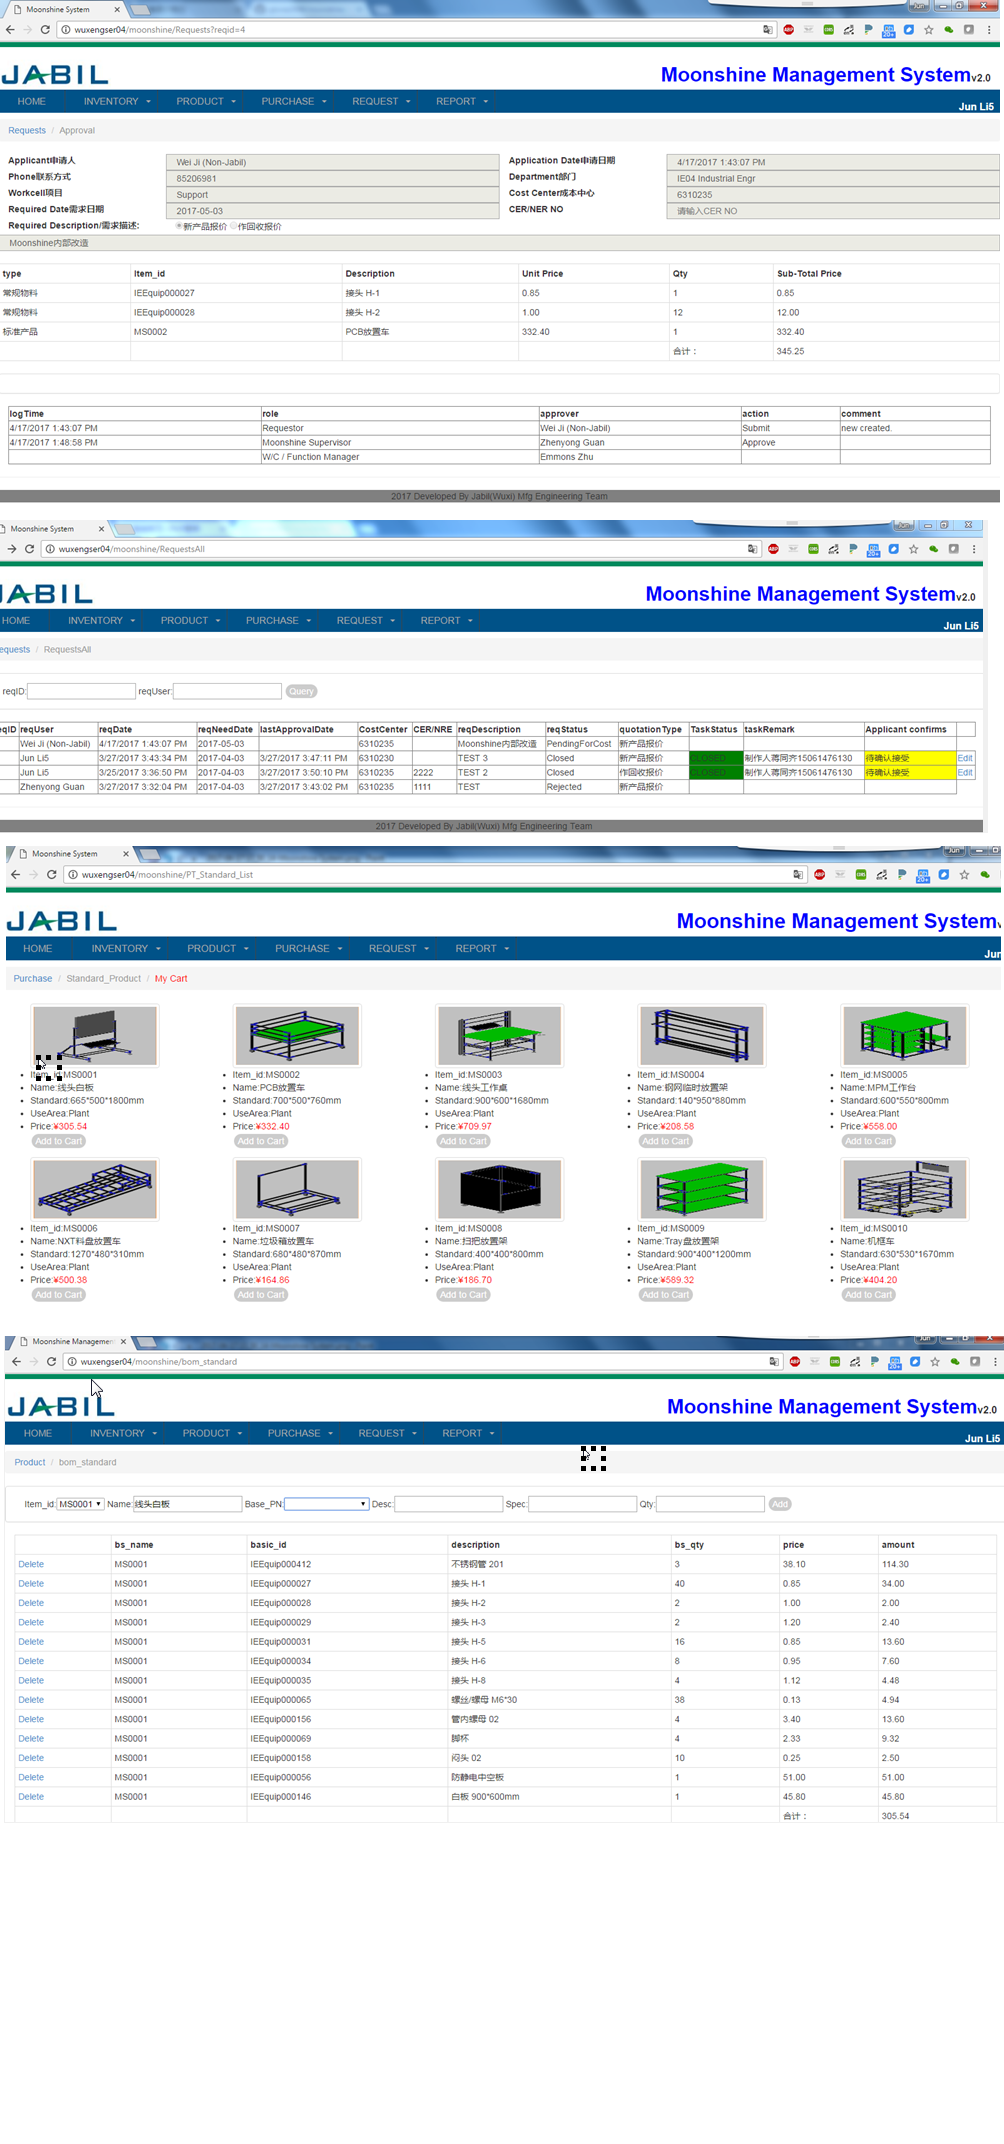
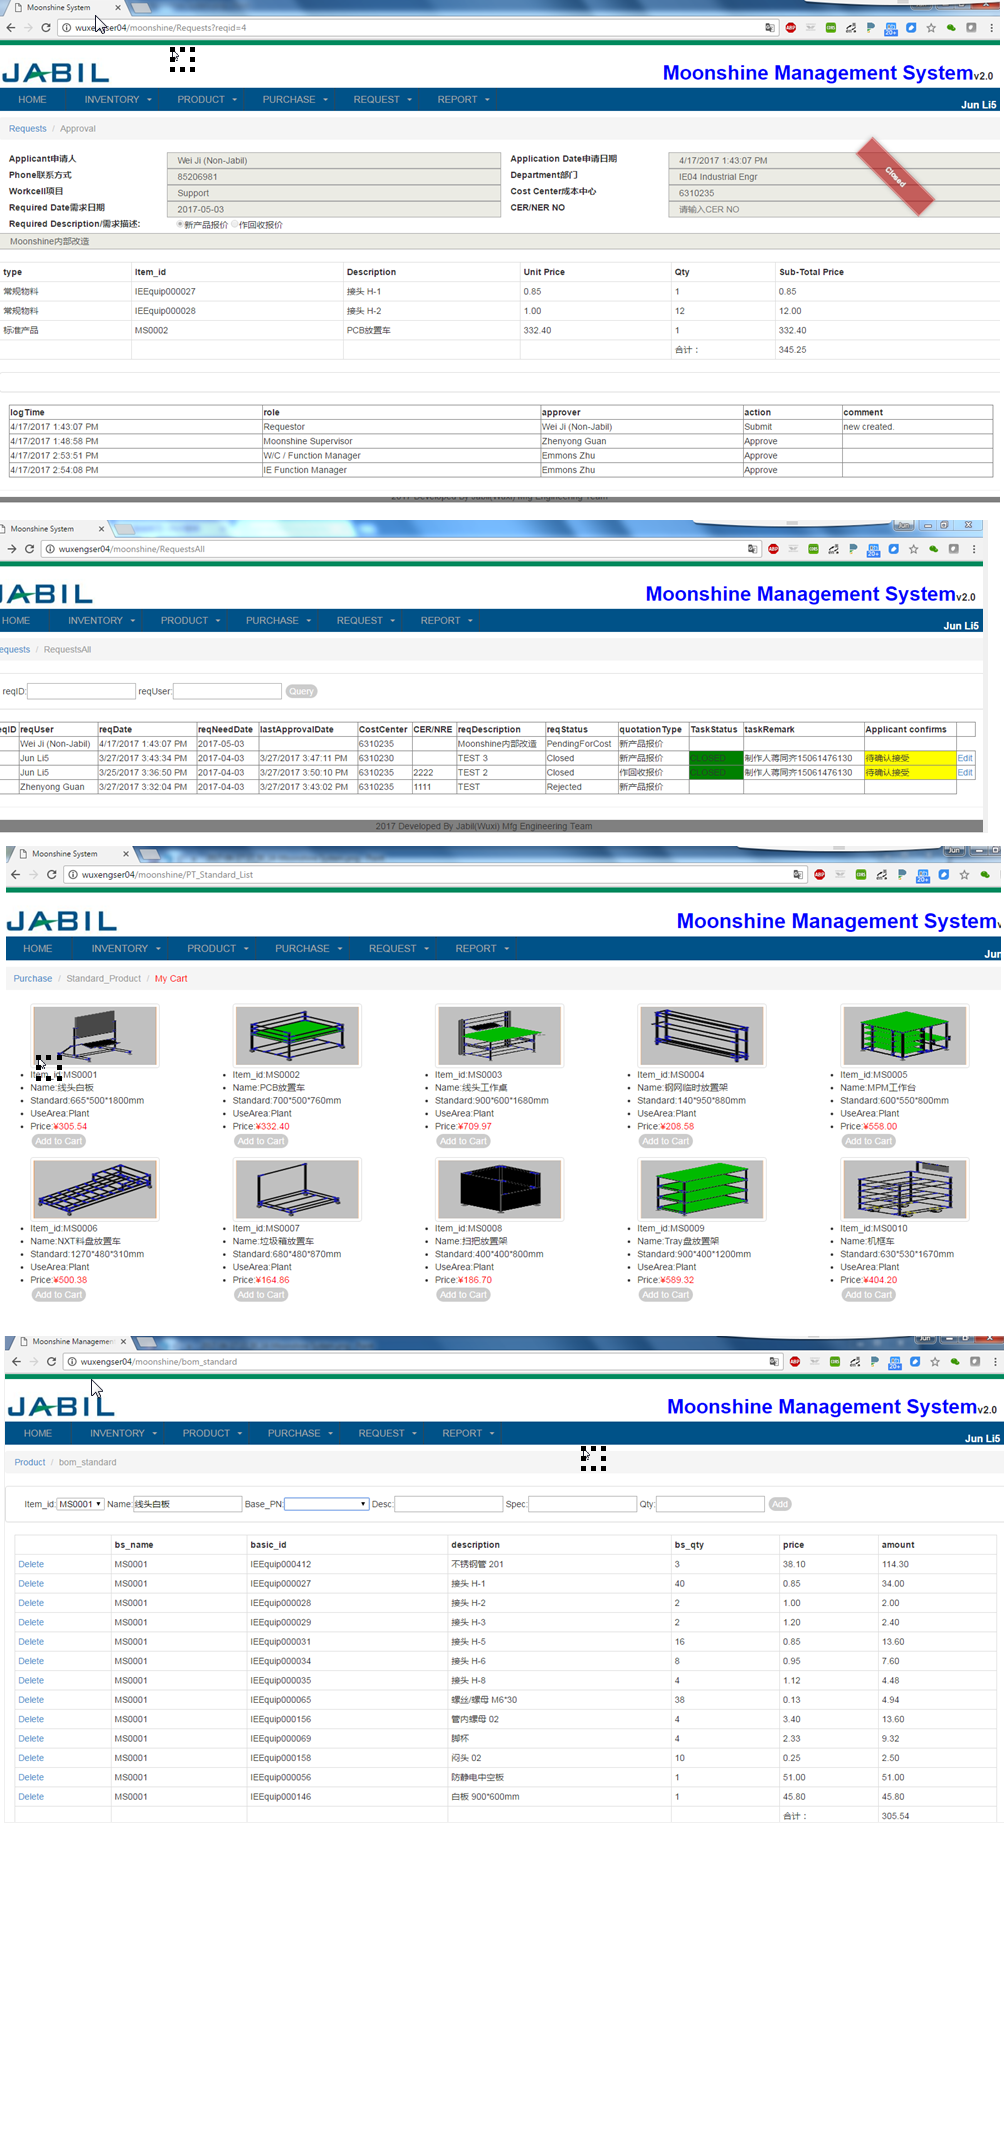
add ribbon

Changed region(s): [[0.0, 0.0, 1.0, 0.1562], [0.0, 0.1875, 1.0, 0.25]]

diff --git a/moonshine/New_Request.aspx.cs b/moonshine/New_Request.aspx.cs
@@ -68,32 +68,32 @@ namespace moonshine
                 string reqDesc = string.IsNullOrEmpty(Request.Form["reqDesc"]) ? string.Empty : Request.Form["reqDesc"].ToString();
                 //add request
                 string sql1 = "insert into request(uid,reqInfo,reqSum) values ('{0}','{1}',{2});select max(reqID) from request";
-                sql1 = string.Format(sql1, Common.GetCurrentNTID(), requestInfo.ReqInfo, sum);
+                sql1 = string.Format(sql1, Common.GetCurrentNTID(), requestInfo.ReqInfo, gvAll.FooterRow.Cells[5].Text);
                 int reqID = Convert.ToInt32(MysqlHelper.ExecuteScalar(sql1));
 
                 //add request_top
                 string sql2 = "insert into request_top(reqID, reqUser,reqPhone, reqDep, reqWC, reqCost, reqNeedDate, reqCER, reqDesc,newold) values ({0},'{1}',{2},'{3}','{4}','{5}','{6}','{7}','{8}','{9}')";
-                sql2 = string.Format(sql2, reqID, Request.Form["reqUser"], Request.Form["reqPhone"], Request.Form["reqDep"], Request.Form["reqWC"], 
-                    Request.Form["reqCost"], Request.Form["reqNeedDate"], reqCER, reqDesc, Request.Form["newold"]); 
+                sql2 = string.Format(sql2, reqID, Request.Form["reqUser"], Request.Form["reqPhone"], Request.Form["reqDep"], Request.Form["reqWC"],
+                    Request.Form["reqCost"], Request.Form["reqNeedDate"], reqCER, reqDesc, Request.Form["newold"]);
                 MysqlHelper.ExecuteNonQuery(sql2);
 
                 //add flow
-                string sql3= "insert into flow(reqID, parentId, Status) values ({0},{1},{2}); select max(flowId) from flow;";
-                sql3 = string.Format(sql3, reqID,0, (int)EnumAll.FlowStatus.Created);
-                int flowId= Convert.ToInt32(MysqlHelper.ExecuteScalar(sql3));
-               
+                string sql3 = "insert into flow(reqID, parentId, Status) values ({0},{1},{2}); select max(flowId) from flow;";
+                sql3 = string.Format(sql3, reqID, 0, (int)EnumAll.FlowStatus.Created);
+                int flowId = Convert.ToInt32(MysqlHelper.ExecuteScalar(sql3));
+
                 //add task
                 string sql4 = "insert into task(reqID, flowId, uid,hostName, role,uname) value ({0},{1},'{2}','{3}',{4},'{5}');select max(sno) from task";
-                sql4 = string.Format(sql4, reqID, flowId, Common.GetCurrentNTID(),Page.Request.UserHostName,(int)EnumAll.RoleType.Requestor, requestInfo.User.DisplayName);
-                int sno= Convert.ToInt32(MysqlHelper.ExecuteScalar(sql4));
+                sql4 = string.Format(sql4, reqID, flowId, Common.GetCurrentNTID(), Page.Request.UserHostName, (int)EnumAll.RoleType.Requestor, requestInfo.User.DisplayName);
+                int sno = Convert.ToInt32(MysqlHelper.ExecuteScalar(sql4));
                 requestInfo.ReqID = reqID;
                 FlowInfo mainflow = new FlowInfo();
                 mainflow.ParentId = 0;
                 mainflow.ReqId = reqID;
                 mainflow.FlowId = flowId;
-                mainflow.Status= FlowStatus.Created;
+                mainflow.Status = FlowStatus.Created;
 
-                
+
                 moonshine.Request.WorkflowHandler.HandleTask(requestInfo.User, sno, mainflow, requestInfo, EnumAll.ActionType.Submit, "new created.");
                 Response.Redirect("RequestsAll.aspx");
             }

diff --git a/moonshine/RequestsAll.aspx.cs b/moonshine/RequestsAll.aspx.cs
@@ -87,22 +87,22 @@ namespace moonshine
                                 ddl.Items.Add("CLOSED");
                                 ddl.Enabled = true;
                                 tb1.Enabled = true;
+                            }                          
                             }
-                            if (ddl.Text == "CLOSED")
+                        if (ddl.Text == "CLOSED")
+                        {
+
+                            ddl.Enabled = false;
+                            tb1.Enabled = false;
+
+                            if (Session["userName"].ToString() == e.Row.Cells[1].Text)
                             {
-
-                                ddl.Enabled = false;
-                                tb1.Enabled = false;
-
-                                if (Session["userName"].ToString() == e.Row.Cells[1].Text)
+                                if (ddlApp.Text == "")
                                 {
-                                    if (ddlApp.Text == "")
-                                    {
-                                        ddlApp.Items.Add("已确认接受");
-                                        ddlApp.Enabled = true;
-                                    }
-
+                                    ddlApp.Items.Add("已确认接收");
+                                    ddlApp.Enabled = true;
                                 }
+
                             }
 
                         }
@@ -129,14 +129,15 @@ namespace moonshine
 
                             e.Row.Cells[10].BackColor = System.Drawing.Color.Green;
 
-                            if (lb2.Text == "已确认接受")
+                            if (lb2.Text == "已确认接收")
                             {
 
                                 e.Row.Cells[12].BackColor = System.Drawing.Color.Green;
+                                e.Row.Cells[13].Visible = false;
                             }
                             if (lb2.Text == "")
                             {
-                                lb2.Text = "待确认接受";
+                                lb2.Text = "待确认接收";
                                 e.Row.Cells[12].BackColor = System.Drawing.Color.Yellow;
                             }
                         }
@@ -146,10 +147,11 @@ namespace moonshine
                             e.Row.Cells[10].BackColor = System.Drawing.Color.Yellow;
                             if (lb2.Text == "")
                             {
-                                lb2.Text = "待确认接受";
+                                lb2.Text = "待确认接收";
                                 e.Row.Cells[12].BackColor = System.Drawing.Color.Yellow;
                             }
                         }
+
 
                     }
                     else
